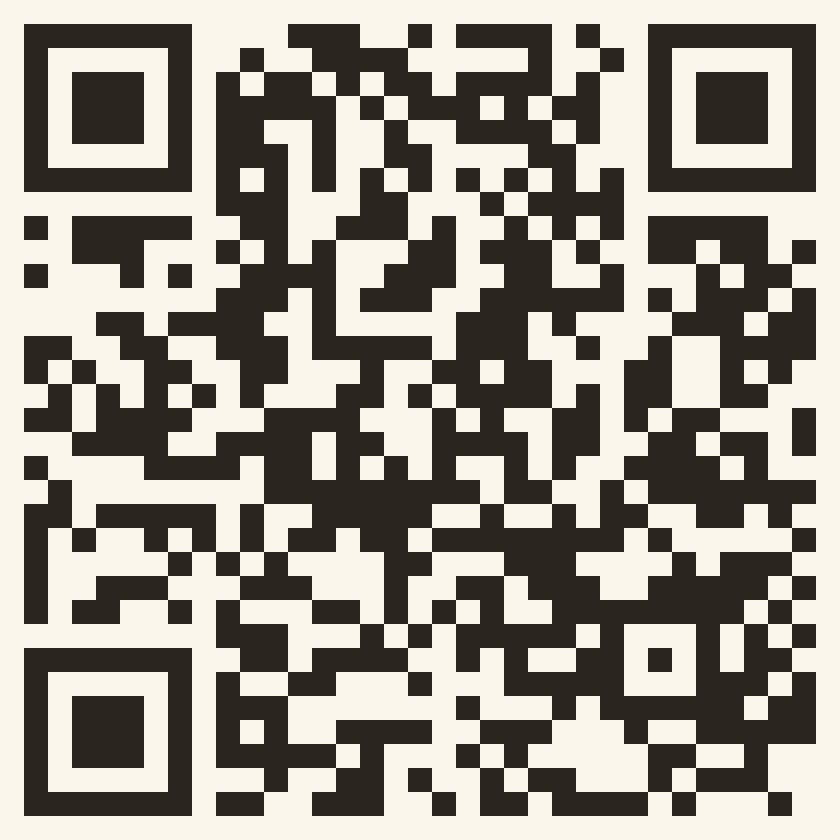
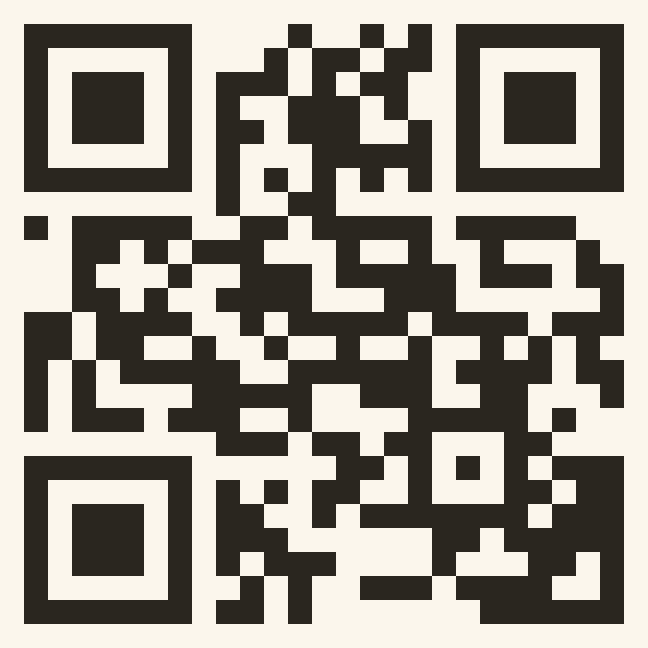
Koble appen til sobremesas.no og verne lokal lagring
QR-koden på julekortet peker nå på https://sobremesas.no (domenet ble
registrert 26. november 2026), adresselinjen på kortet er oppdatert, og
CNAME-filen for GitHub Pages er lagt til. README har fått komplett
DNS-oppskrift for Domeneshop og publiseringssteg for Pages.

Appen ber nå om varig lagring (navigator.storage.persist) når den
kjører fra hjemskjermen eller varsler skrus på, så favoritter og
fremdrift ikke ryddes bort av nettleseren. Service worker bumpet til v8.

diff --git a/js/app.js b/js/app.js
@@ -485,6 +485,7 @@
         if (perm === "granted") {
           toast("Varsler er på ☕");
           registerPeriodicSync();
+          requestPersistentStorage();
         } else {
           toast("Fikk ikke tillatelse – prøv kalenderknappen i stedet");
         }
@@ -585,6 +586,16 @@
       }
     } catch (e) { /* ignorer */ }
     scheduleNotification();
+  }
+
+  /* Be nettleseren verne dataene mot automatisk opprydding */
+  async function requestPersistentStorage() {
+    try {
+      if (navigator.storage && navigator.storage.persist) {
+        const already = await navigator.storage.persisted();
+        if (!already) await navigator.storage.persist();
+      }
+    } catch (e) { /* ignorer */ }
   }
 
   async function registerPeriodicSync() {
@@ -729,6 +740,7 @@
   mirrorToSW();
   scheduleNotification();
   if (state.notif.on) registerPeriodicSync();
+  if (matchMedia("(display-mode: standalone)").matches || state.notif.on) requestPersistentStorage();
   if (!state.onboarded) showOnboarding();
 
   document.addEventListener("visibilitychange", () => {

diff --git a/julekort/index.html b/julekort/index.html
@@ -435,7 +435,7 @@
   </ol>
 
   <div class="qr-box"><img src="qr.png" alt="QR-kode til Sobremesas-appen"></div>
-  <div class="url">bjarnehusumoverland-lang.github.io/spanskkort</div>
+  <div class="url">sobremesas.no</div>
 
   <div class="sample">
     <span class="tema">Smakebit · B1</span>

diff --git a/sw.js b/sw.js
@@ -1,5 +1,5 @@
 /* Sobremesas · service worker */
-const VERSION = "sobremesas-v7";
+const VERSION = "sobremesas-v8";
 const SHELL = [
   "./",
   "index.html",

diff --git a/README.md b/README.md
@@ -48,18 +48,36 @@ kort venter neste gang den åpnes.
 forsidedesignet og en QR-kode til appen: Cmd+P, papirstørrelse A6, ingen marger,
 «skriv ut bakgrunner» på, tosidig («vend på kortsiden»).
 
-QR-koden peker foreløpig på GitHub Pages-adressen. Når domenet er klart, lag ny kode med:
+QR-koden peker på https://sobremesas.no. Skulle adressen endres, lag ny kode med:
 
 ```bash
-osascript -l JavaScript verktoy/lag-qr.js "https://dittdomene.no" julekort/qr.png
+osascript -l JavaScript verktoy/lag-qr.js "https://ny-adresse.no" julekort/qr.png
 ```
 
 … og oppdater adresselinjen i `julekort/index.html` (klassen `.url`).
 
-## Publisere
+## Publisere (sobremesas.no + GitHub Pages)
 
-Alt er relative stier, så appen kan legges rett på GitHub Pages, Netlify e.l.
-(HTTPS kreves for service worker og varsler.)
+Alt er relative stier, så appen kan legges rett på GitHub Pages.
+(HTTPS kreves for service worker og varsler – Pages ordner sertifikatet.)
+
+1. **Push** repoet til GitHub.
+2. **GitHub → Settings → Pages**: «Deploy from a branch» → `main` → `/ (root)` → Save.
+3. Samme sted, under **Custom domain**: skriv `sobremesas.no` → Save.
+   (`CNAME`-filen i repoet holder innstillingen fast.)
+4. **Hos Domeneshop** (Mine domener → sobremesas.no → DNS-innstillinger):
+   - Slett eventuelle ferdigoppsatte A-/AAAA-pekere (domeneparkering).
+   - Legg inn **fire A-poster** med tomt vertsnavn-felt (selve domenet):
+     `185.199.108.153`, `185.199.109.153`, `185.199.110.153`, `185.199.111.153`
+   - Valgfritt, men anbefalt – fire **AAAA-poster** samme sted:
+     `2606:50c0:8000::153`, `2606:50c0:8001::153`, `2606:50c0:8002::153`, `2606:50c0:8003::153`
+   - Én **CNAME-post** med vertsnavn `www` som peker på
+     `bjarnehusumoverland-lang.github.io`
+5. Vent på DNS (minutter til et par timer). Når Pages-siden viser grønn hake
+   for domenet, huk av **«Enforce HTTPS»**.
+
+Deretter svarer https://sobremesas.no (og www-varianten) med landingssiden,
+og QR-koden på julekortet virker.
 
 ## Struktur
 
